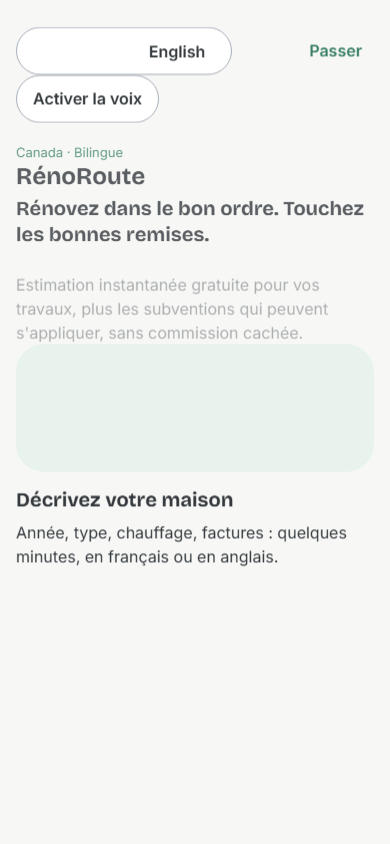
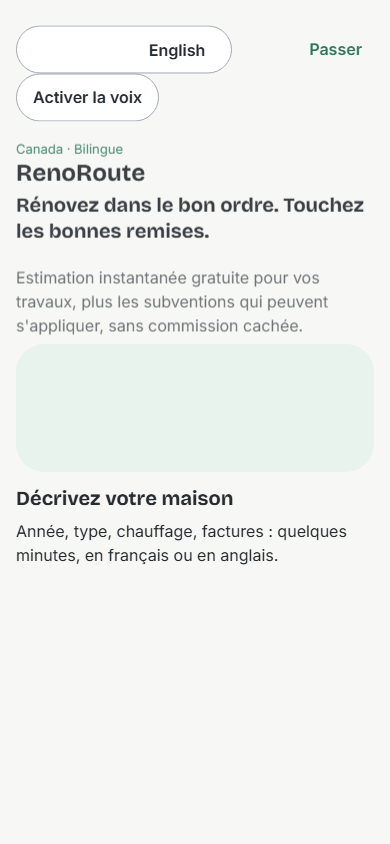
fix: spell the product name RenoRoute in every language
The accented form was the display name in both French and English.

diff --git a/apps/landing/index.html b/apps/landing/index.html
@@ -3,7 +3,7 @@
 <head>
 <meta charset="utf-8">
 <meta name="viewport" content="width=device-width, initial-scale=1">
-<title data-i18n="meta.title">RénoRoute : votre plan de rénovation au N.-B. et la liste des remises</title>
+<title data-i18n="meta.title">RenoRoute : votre plan de rénovation au N.-B. et la liste des remises</title>
 <meta name="description" content="Un plan personnalisé et bilingue pour rénover votre maison au Nouveau-Brunswick : quoi régler en premier, coûts approximatifs, remises auxquelles vous auriez probablement droit, et une liste pour ne pas les perdre." data-i18n-attr="content:meta.description">
 <meta name="theme-color" content="#0E3B2B">
 <link rel="icon" href="favicon.svg" type="image/svg+xml">
@@ -11,9 +11,9 @@
 <link rel="alternate" hreflang="fr-CA" href="https://vernob.github.io/renoroute-landing/?lang=fr">
 <link rel="alternate" hreflang="en-CA" href="https://vernob.github.io/renoroute-landing/?lang=en">
 <meta property="og:type" content="website">
-<meta property="og:site_name" content="RénoRoute">
+<meta property="og:site_name" content="RenoRoute">
 <meta property="og:url" content="https://vernob.github.io/renoroute-landing/">
-<meta property="og:title" content="RénoRoute : votre plan de rénovation au N.-B. et la liste des remises">
+<meta property="og:title" content="RenoRoute : votre plan de rénovation au N.-B. et la liste des remises">
 <meta property="og:description" content="Un plan personnalisé et bilingue pour rénover votre maison au Nouveau-Brunswick : quoi régler en premier, coûts approximatifs, remises auxquelles vous auriez probablement droit, et une liste pour ne pas les perdre.">
 <meta property="og:image" content="https://vernob.github.io/renoroute-landing/og-image.png">
 <meta property="og:image:width" content="1200">
@@ -39,7 +39,7 @@
 
 <header class="topbar" id="topbar">
   <div class="wrap">
-    <a class="brand" href="./" aria-label="RénoRoute"><img src="assets/logo.svg" width="34" height="34" alt=""><span>Réno<span style="color:var(--color-primary-700)">Route</span></span></a>
+    <a class="brand" href="./" aria-label="RenoRoute"><img src="assets/logo.svg" width="34" height="34" alt=""><span>Reno<span style="color:var(--color-primary-700)">Route</span></span></a>
     <div class="nav-right">
       <a href="#reserve" class="btn btn-primary btn-sm nav-cta" data-i18n="nav.cta">Réserver</a>
       <div class="segmented" role="group" aria-label="Langue" data-i18n-attr="aria-label:nav.langGroup">
@@ -373,14 +373,14 @@
 
 <footer>
   <div class="wrap">
-    <a class="brand" href="./" aria-label="RénoRoute"><img src="assets/logo.svg" width="34" height="34" alt=""><span>Réno<span style="color:var(--color-primary-700)">Route</span></span></a>
-    <div class="disclaimer" data-i18n="disc"><strong>Important :</strong> RénoRoute est un service de planification indépendant. Ce n'est <strong>pas</strong> une évaluation énergétique officielle, une cote ÉnerGuide ni un avis d'ingénierie, et il n'est <strong>pas affilié</strong> à Énergie NB, à ÉconergieNB, à Ressources naturelles Canada ni à aucun gouvernement. Les montants et les règles changent souvent. Vérifiez toujours sur <a href='https://www.econergienb.ca'>econergienb.ca</a> / <a href='https://www.saveenergynb.ca'>saveenergynb.ca</a> ou au 1-800-663-6272 avant d'acheter ou de commencer des travaux. Les coûts sont des estimations, pas des soumissions.</div>
+    <a class="brand" href="./" aria-label="RenoRoute"><img src="assets/logo.svg" width="34" height="34" alt=""><span>Reno<span style="color:var(--color-primary-700)">Route</span></span></a>
+    <div class="disclaimer" data-i18n="disc"><strong>Important :</strong> RenoRoute est un service de planification indépendant. Ce n'est <strong>pas</strong> une évaluation énergétique officielle, une cote ÉnerGuide ni un avis d'ingénierie, et il n'est <strong>pas affilié</strong> à Énergie NB, à ÉconergieNB, à Ressources naturelles Canada ni à aucun gouvernement. Les montants et les règles changent souvent. Vérifiez toujours sur <a href='https://www.econergienb.ca'>econergienb.ca</a> / <a href='https://www.saveenergynb.ca'>saveenergynb.ca</a> ou au 1-800-663-6272 avant d'acheter ou de commencer des travaux. Les coûts sont des estimations, pas des soumissions.</div>
     <nav class="links" aria-label="Footer">
       <a href="privacy.html" data-i18n="footer.privacy">Politique de confidentialité</a>
       <a href="delete-account.html" data-i18n="footer.delete">Supprimer mon compte</a>
       <a href="mailto:hello@example.com" data-i18n="footer.contact">Nous joindre</a>
     </nav>
-    <p>© 2026 RénoRoute <span data-i18n="footer.working">(nom provisoire)</span> · Phaneroo Ventures · <span data-i18n="footer.made">Fait au Nouveau-Brunswick</span></p>
+    <p>© 2026 RenoRoute <span data-i18n="footer.working">(nom provisoire)</span> · Phaneroo Ventures · <span data-i18n="footer.made">Fait au Nouveau-Brunswick</span></p>
     <p data-i18n="priv">Confidentialité : nous recueillons seulement ce que vous soumettez ici, le conservons au Canada lorsque possible et le supprimons sur demande.</p>
   </div>
 </footer>

diff --git a/docs/research/rebate-guide-validation/landing-page/index.html b/docs/research/rebate-guide-validation/landing-page/index.html
@@ -3,7 +3,7 @@
 <head>
 <meta charset="utf-8">
 <meta name="viewport" content="width=device-width, initial-scale=1">
-<title>RénoRoute: Your NB home-upgrade plan & rebate checklist</title>
+<title>RenoRoute: Your NB home-upgrade plan & rebate checklist</title>
 <meta name="description" content="A personalized, bilingual plan for upgrading your New Brunswick home: what to fix first, rough costs, the rebates you likely qualify for, and a checklist so you don't lose them.">
 <!--
   SMOKE-TEST LANDING PAGE (single file, no dependencies).
@@ -52,7 +52,7 @@
 
 <header>
   <div class="wrap top">
-    <div class="logo">Réno<span>Route</span></div>
+    <div class="logo">Reno<span>Route</span></div>
     <button class="langbtn" id="langbtn" onclick="toggleLang()">Français</button>
   </div>
   <div class="wrap hero">
@@ -151,12 +151,12 @@
 
 <section>
   <div class="wrap">
-    <div class="disclaimer" data-i18n="disc"><strong>Important:</strong> RénoRoute is an independent planning service. It is <strong>not</strong> an official home energy evaluation, an EnerGuide rating or professional engineering advice, and it is <strong>not affiliated with</strong> NB Power, Save Energy NB, Natural Resources Canada or any government. Rebate amounts and rules change often. Always confirm on <a href="https://www.saveenergynb.ca">saveenergynb.ca</a> / <a href="https://www.econergienb.ca">econergienb.ca</a> or by calling 1-800-663-6272 before you buy or start work. Cost ranges are estimates, not quotes.</div>
+    <div class="disclaimer" data-i18n="disc"><strong>Important:</strong> RenoRoute is an independent planning service. It is <strong>not</strong> an official home energy evaluation, an EnerGuide rating or professional engineering advice, and it is <strong>not affiliated with</strong> NB Power, Save Energy NB, Natural Resources Canada or any government. Rebate amounts and rules change often. Always confirm on <a href="https://www.saveenergynb.ca">saveenergynb.ca</a> / <a href="https://www.econergienb.ca">econergienb.ca</a> or by calling 1-800-663-6272 before you buy or start work. Cost ranges are estimates, not quotes.</div>
   </div>
 </section>
 
 <footer>
-  <div class="wrap">© 2026 RénoRoute (working name) · Phaneroo Ventures · New Brunswick, Canada · <a href="mailto:hello@example.com">hello@example.com</a> · <span data-i18n="priv">Privacy: we collect only what you submit here, store it in Canada where practical and delete it on request.</span></div>
+  <div class="wrap">© 2026 RenoRoute (working name) · Phaneroo Ventures · New Brunswick, Canada · <a href="mailto:hello@example.com">hello@example.com</a> · <span data-i18n="priv">Privacy: we collect only what you submit here, store it in Canada where practical and delete it on request.</span></div>
 </footer>
 
 <script>
@@ -185,7 +185,7 @@ const T = {
   q2:"Qui est derrière ce service ?", a2:"Brown Verno, rénovateur au Nouveau-Brunswick (gypse, portes, fenêtres, moulures, planchers, peinture). Les plans sont préparés avec des outils d'IA et révisés par une personne avant l'envoi.",
   q3:"Garantissez-vous que j'obtiendrai une remise ?", a3:"Non. Les programmes sont gérés par Énergie NB et le gouvernement du Canada, qui décident de l'admissibilité. Nous vous dirigeons vers les règles officielles et vous aidons à éviter les erreurs courantes.",
   q4:"Que faites-vous de mes photos et factures ?", a4:"Nous les utilisons seulement pour préparer votre plan. Nous ne les vendons pas et nous les supprimons sur demande.",
-  disc:"<strong>Important :</strong> RénoRoute est un service de planification indépendant. Ce n'est <strong>pas</strong> une évaluation énergétique officielle, une cote ÉnerGuide ni un avis d'ingénierie, et il n'est <strong>pas affilié</strong> à Énergie NB, à ÉconergieNB, à Ressources naturelles Canada ni à aucun gouvernement. Les montants et les règles changent souvent. Vérifiez toujours sur <a href='https://www.econergienb.ca'>econergienb.ca</a> / <a href='https://www.saveenergynb.ca'>saveenergynb.ca</a> ou au 1-800-663-6272 avant d'acheter ou de commencer des travaux. Les coûts sont des estimations, pas des soumissions.",
+  disc:"<strong>Important :</strong> RenoRoute est un service de planification indépendant. Ce n'est <strong>pas</strong> une évaluation énergétique officielle, une cote ÉnerGuide ni un avis d'ingénierie, et il n'est <strong>pas affilié</strong> à Énergie NB, à ÉconergieNB, à Ressources naturelles Canada ni à aucun gouvernement. Les montants et les règles changent souvent. Vérifiez toujours sur <a href='https://www.econergienb.ca'>econergienb.ca</a> / <a href='https://www.saveenergynb.ca'>saveenergynb.ca</a> ou au 1-800-663-6272 avant d'acheter ou de commencer des travaux. Les coûts sont des estimations, pas des soumissions.",
   priv:"Confidentialité : nous recueillons seulement ce que vous soumettez ici, le conservons au Canada lorsque possible et le supprimons sur demande."
  }
 };

diff --git a/apps/landing/terms.html b/apps/landing/terms.html
@@ -3,7 +3,7 @@
 <head>
 <meta charset="utf-8">
 <meta name="viewport" content="width=device-width, initial-scale=1">
-<title data-i18n="tos.title">Conditions d'utilisation — RénoRoute</title>
+<title data-i18n="tos.title">Conditions d'utilisation — RenoRoute</title>
 <meta name="robots" content="noindex">
 <meta name="theme-color" content="#1F6F50">
 <link rel="icon" href="favicon.svg" type="image/svg+xml">
@@ -17,7 +17,7 @@
 <div class="draft-banner" role="note"><div class="wrap" data-i18n="tos.draft">BROUILLON — à faire réviser par un professionnel avant usage définitif. Ceci n'est pas un avis juridique.</div></div>
 <header class="topbar">
   <div class="wrap">
-    <a class="brand" href="./" aria-label="RénoRoute"><img src="assets/logo.svg" width="32" height="32" alt=""><span>Réno<span style="color:var(--color-primary-700)">Route</span></span></a>
+    <a class="brand" href="./" aria-label="RenoRoute"><img src="assets/logo.svg" width="32" height="32" alt=""><span>Reno<span style="color:var(--color-primary-700)">Route</span></span></a>
     <div class="segmented" role="group" aria-label="Langue" data-i18n-attr="aria-label:nav.langGroup">
       <button type="button" data-lang="fr" lang="fr" aria-pressed="true">FR</button>
       <button type="button" data-lang="en" lang="en" aria-pressed="false">EN</button>
@@ -27,20 +27,20 @@
 <main id="main"><section><div class="wrap prose">
   <h1 class="display" data-i18n="tos.h1">Conditions d'utilisation (brouillon)</h1>
   <p class="caption" data-i18n="tos.updated">Dernière mise à jour : 22 octobre 2026 · version 2026-10-draft</p>
-  <p data-i18n="tos.intro">Ces conditions expliquent comment utiliser l'application et le site RénoRoute. Elles ne remplacent pas les règles des programmes de subvention.</p>
+  <p data-i18n="tos.intro">Ces conditions expliquent comment utiliser l'application et le site RenoRoute. Elles ne remplacent pas les règles des programmes de subvention.</p>
   <h2 data-i18n="tos.notOfficialH">Pas un service officiel</h2>
-  <p data-i18n="tos.notOfficial">RénoRoute n'est pas une évaluation énergétique officielle, une cote ÉnerGuide ni un avis d'ingénierie. Le service n'est pas affilié à Énergie NB, à ÉconergieNB, à Ressources naturelles Canada ni à un gouvernement.</p>
+  <p data-i18n="tos.notOfficial">RenoRoute n'est pas une évaluation énergétique officielle, une cote ÉnerGuide ni un avis d'ingénierie. Le service n'est pas affilié à Énergie NB, à ÉconergieNB, à Ressources naturelles Canada ni à un gouvernement.</p>
   <h2 data-i18n="tos.accountH">Compte</h2>
   <p data-i18n="tos.account">Vous créez un compte avec votre courriel. Vous êtes responsable des renseignements que vous fournissez. Vous pouvez demander la suppression de votre compte.</p>
   <h2 data-i18n="tos.planH">Plans et paiements</h2>
   <p data-i18n="tos.plan">Les fourchettes de coûts et d'économies sont des estimations. Un plan n'est pas une soumission. Les montants de subvention viennent des programmes officiels, qui changent. Vérifiez toujours sur le site de l'organisme avant d'acheter ou de commencer des travaux. Les prix, taxes et remboursements seront précisés avant un paiement (à vérifier).</p>
   <h2 data-i18n="tos.aiH">Traitement par IA</h2>
-  <p data-i18n="tos.ai">Si vous acceptez le consentement IA, vos données et photos peuvent être traitées hors du Canada par le fournisseur configuré (à vérifier) pour rédiger un plan. RénoRoute n'utilise pas l'IA pour inventer des montants de subvention.</p>
+  <p data-i18n="tos.ai">Si vous acceptez le consentement IA, vos données et photos peuvent être traitées hors du Canada par le fournisseur configuré (à vérifier) pour rédiger un plan. RenoRoute n'utilise pas l'IA pour inventer des montants de subvention.</p>
   <h2 data-i18n="tos.contactH">Contact</h2>
   <p data-i18n="tos.contact">Questions : <a href="mailto:{{contactEmail}}">{{contactEmail}}</a>. Politique de confidentialité : <a href="privacy.html">privacy.html</a>.</p>
   <p style="margin-top:var(--space-8)"><a class="btn btn-secondary" href="./" data-i18n="tos.back">← Retour à l'accueil</a></p>
 </div></section></main>
-<footer><div class="wrap"><p>© 2026 RénoRoute <span data-i18n="footer.working">(nom provisoire)</span> · Phaneroo Ventures</p></div></footer>
+<footer><div class="wrap"><p>© 2026 RenoRoute <span data-i18n="footer.working">(nom provisoire)</span> · Phaneroo Ventures</p></div></footer>
 <script src="config.js"></script>
 <script src="i18n.js"></script>
 <script src="app.js"></script>

diff --git a/apps/landing/privacy.html b/apps/landing/privacy.html
@@ -3,7 +3,7 @@
 <head>
 <meta charset="utf-8">
 <meta name="viewport" content="width=device-width, initial-scale=1">
-<title data-i18n="pp.title">Politique de confidentialité — RénoRoute</title>
+<title data-i18n="pp.title">Politique de confidentialité — RenoRoute</title>
 <meta name="robots" content="noindex">
 <meta name="theme-color" content="#1F6F50">
 <link rel="icon" href="favicon.svg" type="image/svg+xml">
@@ -17,7 +17,7 @@
 <div class="draft-banner" role="note"><div class="wrap" data-i18n="pp.draft">BROUILLON — à faire réviser par un professionnel avant usage définitif. Version courte, liste de lancement seulement.</div></div>
 <header class="topbar">
   <div class="wrap">
-    <a class="brand" href="./" aria-label="RénoRoute"><img src="assets/logo.svg" width="32" height="32" alt=""><span>Réno<span style="color:var(--color-primary-700)">Route</span></span></a>
+    <a class="brand" href="./" aria-label="RenoRoute"><img src="assets/logo.svg" width="32" height="32" alt=""><span>Reno<span style="color:var(--color-primary-700)">Route</span></span></a>
     <div class="segmented" role="group" aria-label="Langue" data-i18n-attr="aria-label:nav.langGroup">
       <button type="button" data-lang="fr" lang="fr" aria-pressed="true">FR</button>
       <button type="button" data-lang="en" lang="en" aria-pressed="false">EN</button>
@@ -27,8 +27,8 @@
 <main id="main"><section><div class="wrap prose">
   <h1 class="display" data-i18n="pp.h1">Politique de confidentialité (version courte)</h1>
   <p class="caption" data-i18n="pp.updated">Dernière mise à jour : 19 octobre 2026</p>
-  <p data-i18n="pp.intro">Cette page explique comment RénoRoute traite les renseignements personnels recueillis par ce site, conformément à la <em>Loi sur la protection des renseignements personnels et les documents électroniques</em> (LPRPDE / PIPEDA).</p>
-  <h2 data-i18n="pp.whoH">Qui est responsable</h2><p data-i18n="pp.who">RénoRoute (nom provisoire), exploité par Phaneroo Ventures, Nouveau-Brunswick, Canada. Personne responsable de la protection des renseignements : Brown Verno — <a href="mailto:hello@example.com">hello@example.com</a>.</p>
+  <p data-i18n="pp.intro">Cette page explique comment RenoRoute traite les renseignements personnels recueillis par ce site, conformément à la <em>Loi sur la protection des renseignements personnels et les documents électroniques</em> (LPRPDE / PIPEDA).</p>
+  <h2 data-i18n="pp.whoH">Qui est responsable</h2><p data-i18n="pp.who">RenoRoute (nom provisoire), exploité par Phaneroo Ventures, Nouveau-Brunswick, Canada. Personne responsable de la protection des renseignements : Brown Verno — <a href="mailto:hello@example.com">hello@example.com</a>.</p>
   <h2 data-i18n="pp.whatH">Ce que nous recueillons</h2><div data-i18n="pp.what"><ul><li>Votre courriel (obligatoire).</li><li>Votre ville et votre type de chauffage (facultatifs).</li><li>Votre choix (réserver ou liste d'attente), la langue, le prix affiché et la campagne publicitaire d'origine (paramètres utm).</li></ul>Nous ne demandons ni adresse, ni revenu, ni photos sur ce site.</div>
   <h2 data-i18n="pp.whyH">Pourquoi</h2><p data-i18n="pp.why">Pour vous écrire au sujet de votre réservation ou de la liste d'attente, et pour mesurer l'intérêt pour le service (quel prix, quelle langue, quelle annonce). Nous ne vendons pas vos renseignements.</p>
   <h2 data-i18n="pp.consentH">Consentement</h2><p data-i18n="pp.consent">Vous consentez en cochant la case du formulaire. Vous pouvez retirer votre consentement en tout temps par courriel ; nous supprimerons alors vos renseignements. Les courriels respectent la Loi canadienne anti-pourriel (LCAP).</p>
@@ -40,7 +40,7 @@
   <h2 data-i18n="pp.securityH">Sécurité</h2><p data-i18n="pp.security">Accès restreint (seul le responsable peut lire la liste), connexion chiffrée (HTTPS), aucune donnée sensible demandée. En cas d'atteinte présentant un risque réel de préjudice grave, nous vous aviserons ainsi que le Commissariat.</p>
   <p style="margin-top:var(--space-8)"><a class="btn btn-secondary" href="./" data-i18n="pp.back">← Retour à l'accueil</a></p>
 </div></section></main>
-<footer><div class="wrap"><p>© 2026 RénoRoute <span data-i18n="footer.working">(nom provisoire)</span> · Phaneroo Ventures</p></div></footer>
+<footer><div class="wrap"><p>© 2026 RenoRoute <span data-i18n="footer.working">(nom provisoire)</span> · Phaneroo Ventures</p></div></footer>
 <script src="config.js"></script>
 <script src="i18n.js"></script>
 <script src="app.js"></script>

diff --git a/apps/landing/delete-account.html b/apps/landing/delete-account.html
@@ -3,7 +3,7 @@
 <head>
 <meta charset="utf-8">
 <meta name="viewport" content="width=device-width, initial-scale=1">
-<title data-i18n="da.title">Supprimer mon compte — RénoRoute</title>
+<title data-i18n="da.title">Supprimer mon compte — RenoRoute</title>
 <meta name="robots" content="noindex">
 <meta name="theme-color" content="#1F6F50">
 <link rel="icon" href="favicon.svg" type="image/svg+xml">
@@ -17,7 +17,7 @@
 <div class="draft-banner" role="note"><div class="wrap" data-i18n="da.draft">BROUILLON — URL publique demandée par Google Play (à vérifier). Cette page n’efface pas le compte toute seule.</div></div>
 <header class="topbar">
   <div class="wrap">
-    <a class="brand" href="./" aria-label="RénoRoute"><img src="assets/logo.svg" width="32" height="32" alt=""><span>Réno<span style="color:var(--color-primary-700)">Route</span></span></a>
+    <a class="brand" href="./" aria-label="RenoRoute"><img src="assets/logo.svg" width="32" height="32" alt=""><span>Reno<span style="color:var(--color-primary-700)">Route</span></span></a>
     <div class="segmented" role="group" aria-label="Langue" data-i18n-attr="aria-label:nav.langGroup">
       <button type="button" data-lang="fr" lang="fr" aria-pressed="true">FR</button>
       <button type="button" data-lang="en" lang="en" aria-pressed="false">EN</button>
@@ -27,7 +27,7 @@
 <main id="main"><section><div class="wrap prose">
   <h1 class="display" data-i18n="da.h1">Demander la suppression du compte</h1>
   <p class="caption" data-i18n="da.updated">Dernière mise à jour : 23 octobre 2026</p>
-  <p data-i18n="da.intro">Cette page est pour les personnes qui n’ont plus l’application RénoRoute et qui veulent faire supprimer leur compte. Si l’app est encore installée, utilisez plutôt le bouton dans Compte.</p>
+  <p data-i18n="da.intro">Cette page est pour les personnes qui n’ont plus l’application RenoRoute et qui veulent faire supprimer leur compte. Si l’app est encore installée, utilisez plutôt le bouton dans Compte.</p>
   <h2 data-i18n="da.inAppH">Dans l’application</h2>
   <p data-i18n="da.inApp">Ouvrez Compte, puis Supprimer mon compte. Tapez SUPPRIMER (français) ou DELETE (anglais). La suppression in-app est immédiate : maisons, photos et plans disparaissent.</p>
   <h2 data-i18n="da.webH">Sans l’application</h2>
@@ -57,7 +57,7 @@
   </div>
   <p style="margin-top:var(--space-8)"><a class="btn btn-secondary" href="./" data-i18n="da.back">← Retour à l'accueil</a></p>
 </div></section></main>
-<footer><div class="wrap"><p>© 2026 RénoRoute <span data-i18n="footer.working">(nom provisoire)</span> · Phaneroo Ventures</p></div></footer>
+<footer><div class="wrap"><p>© 2026 RenoRoute <span data-i18n="footer.working">(nom provisoire)</span> · Phaneroo Ventures</p></div></footer>
 <script src="config.js"></script>
 <script src="i18n.js"></script>
 <script src="app.js"></script>

diff --git a/packages/shared/src/config/brand.test.ts b/packages/shared/src/config/brand.test.ts
@@ -1,7 +1,12 @@
 import assert from 'node:assert/strict';
+import { readFileSync } from 'node:fs';
+import path from 'node:path';
 import { test } from 'node:test';
+import { fileURLToPath } from 'node:url';
 
 import { BRAND } from './brand.ts';
+
+const ACCENTED_PRODUCT_NAME = 'RénoRoute';
 
 test('BRAND is the only product-identifier contract', () => {
   assert.equal(BRAND.slug, 'renoroute');
@@ -12,4 +17,18 @@ test('BRAND is the only product-identifier contract', () => {
   assert.equal(typeof BRAND.supportEmail, 'string');
   assert.equal(typeof BRAND.legalEntity, 'string');
   assert.equal(typeof BRAND.websiteUrl, 'string');
+  assert.equal(BRAND.name, 'RenoRoute');
+});
+
+test('i18n catalogs and the Expo config never use the accented product name', () => {
+  const root = path.resolve(path.dirname(fileURLToPath(import.meta.url)), '../../../..');
+  const files = [
+    'packages/shared/src/i18n/fr.json',
+    'packages/shared/src/i18n/en.json',
+    'apps/mobile/app.config.ts',
+  ];
+  for (const file of files) {
+    const text = readFileSync(path.join(root, file), 'utf8');
+    assert.equal(text.includes(ACCENTED_PRODUCT_NAME), false, file);
+  }
 });

diff --git a/apps/landing/tools/og-image.html b/apps/landing/tools/og-image.html
@@ -5,7 +5,7 @@
 .c{padding:72px;display:flex;flex-direction:column;gap:28px}.b{display:flex;gap:18px;align-items:center;font-size:44px;font-weight:700;color:var(--color-neutral-900)}
 .b img{width:84px;height:84px}h1{font-family:var(--font-family-display);letter-spacing:-.02em;margin:0;font-size:60px;line-height:70px;color:var(--color-neutral-900);max-width:1000px}
 p{margin:0;font-size:30px;color:var(--color-neutral-600)}.chip{display:inline-block;background:var(--color-primary-700);color:#fff;border-radius:9999px;padding:10px 24px;font-size:26px;font-weight:600}</style></head>
-<body><div class="c"><div class="b"><img src="../assets/logo.svg" alt=""><span>Réno<span style="color:var(--color-primary-700)">Route</span></span></div>
+<body><div class="c"><div class="b"><img src="../assets/logo.svg" alt=""><span>Reno<span style="color:var(--color-primary-700)">Route</span></span></div>
 <h1>Votre plan de rénovation au N.-B.<br>Your NB home-upgrade plan</h1>
 <p>Quoi faire d'abord · remises · coûts — What first · rebates · costs</p>
 <div><span class="chip">FR / EN · Nouveau-Brunswick</span></div></div></body></html>

diff --git a/packages/shared/src/rebates/subsidy-pack.test.ts b/packages/shared/src/rebates/subsidy-pack.test.ts
@@ -96,7 +96,7 @@ function program(overrides: Partial<VisibleRebateProgram> = {}): VisibleRebatePr
 
 test('the French pack keeps only published https dossier lines and the legal banner', () => {
   const pack = buildSubsidyPack({
-    appName: 'RénoRoute',
+    appName: 'RenoRoute',
     copy: copy.fr,
     locale: 'fr',
     planLines: [{ title: 'Étanchéisation', rationale: 'Réduire les fuites.' }],
@@ -116,7 +116,7 @@ test('the French pack keeps only published https dossier lines and the legal ban
 
 test('the English pack keeps only published https dossier lines and the legal banner', () => {
   const pack = buildSubsidyPack({
-    appName: 'RénoRoute',
+    appName: 'RenoRoute',
     copy: copy.en,
     locale: 'en',
     planLines: [],

diff --git a/apps/mobile/app-config.test.ts b/apps/mobile/app-config.test.ts
@@ -8,6 +8,12 @@ import { colors } from './src/theme/tokens.ts';
 
 test('Expo config reads product identifiers from BRAND', () => {
   assert.equal(config.name, BRAND.name);
+  assert.equal(config.name, 'RenoRoute');
+  assert.equal(config.ios?.infoPlist?.CFBundleDisplayName, 'RenoRoute');
+  assert.equal(config.ios?.infoPlist?.CFBundleName, 'RenoRoute');
+  assert.equal(config.web?.name, 'RenoRoute');
+  assert.equal(config.web?.shortName, 'RenoRoute');
+  assert.equal(JSON.stringify(config).includes('RénoRoute'), false);
   assert.equal(config.slug, BRAND.slug);
   assert.equal(config.scheme, BRAND.scheme);
   assert.equal(config.ios?.bundleIdentifier, BRAND.iosBundleId);

diff --git a/apps/mobile/app.config.ts b/apps/mobile/app.config.ts
@@ -55,6 +55,10 @@ export function buildExpoConfig(env: PublicEnv): ExpoConfig {
       bundleIdentifier: BRAND.iosBundleId,
       supportsTablet: false,
       icon: './assets/images/icon.png',
+      infoPlist: {
+        CFBundleDisplayName: BRAND.name,
+        CFBundleName: BRAND.name,
+      },
     },
     android: {
       package: BRAND.androidPackage,
@@ -70,6 +74,8 @@ export function buildExpoConfig(env: PublicEnv): ExpoConfig {
       bundler: 'metro',
       output: 'static',
       favicon: './assets/images/favicon.png',
+      name: BRAND.name,
+      shortName: BRAND.name,
     },
     plugins,
     experiments: {

diff --git a/apps/landing/config.js b/apps/landing/config.js
@@ -4,8 +4,8 @@
  */
 window.RR_CONFIG = {
   brand: {
-    name: 'RénoRoute',              // working name — mirror of BRAND.name
-    nameParts: ['Réno', 'Route'],   // logo wordmark split (second part in primary colour)
+    name: 'RenoRoute',              // working name — mirror of BRAND.name
+    nameParts: ['Reno', 'Route'],   // logo wordmark split (second part in primary colour)
     legalEntity: 'Phaneroo Ventures',  // TODO(verify) — kept from the original landing page
   },
   siteUrl: 'https://vernob.github.io/renoroute-landing/', // update when a custom domain is set

diff --git a/packages/shared/src/config/brand.ts b/packages/shared/src/config/brand.ts
@@ -3,7 +3,7 @@
 // apps/mobile/app.config.ts, emails, PDFs and i18n interpolation ({{appName}}) import from here.
 
 export const BRAND = {
-  name: 'RénoRoute', // display name (FR/EN identical for now) — working name, may change
+  name: 'RenoRoute', // display name (FR/EN identical for now) — working name, may change
   slug: 'renoroute', // Expo slug / URL-safe
   scheme: 'renoroute', // deep link scheme: renoroute://
   iosBundleId: 'ca.renoroute.app', // TODO(verify): final reverse-domain once domain is bought
